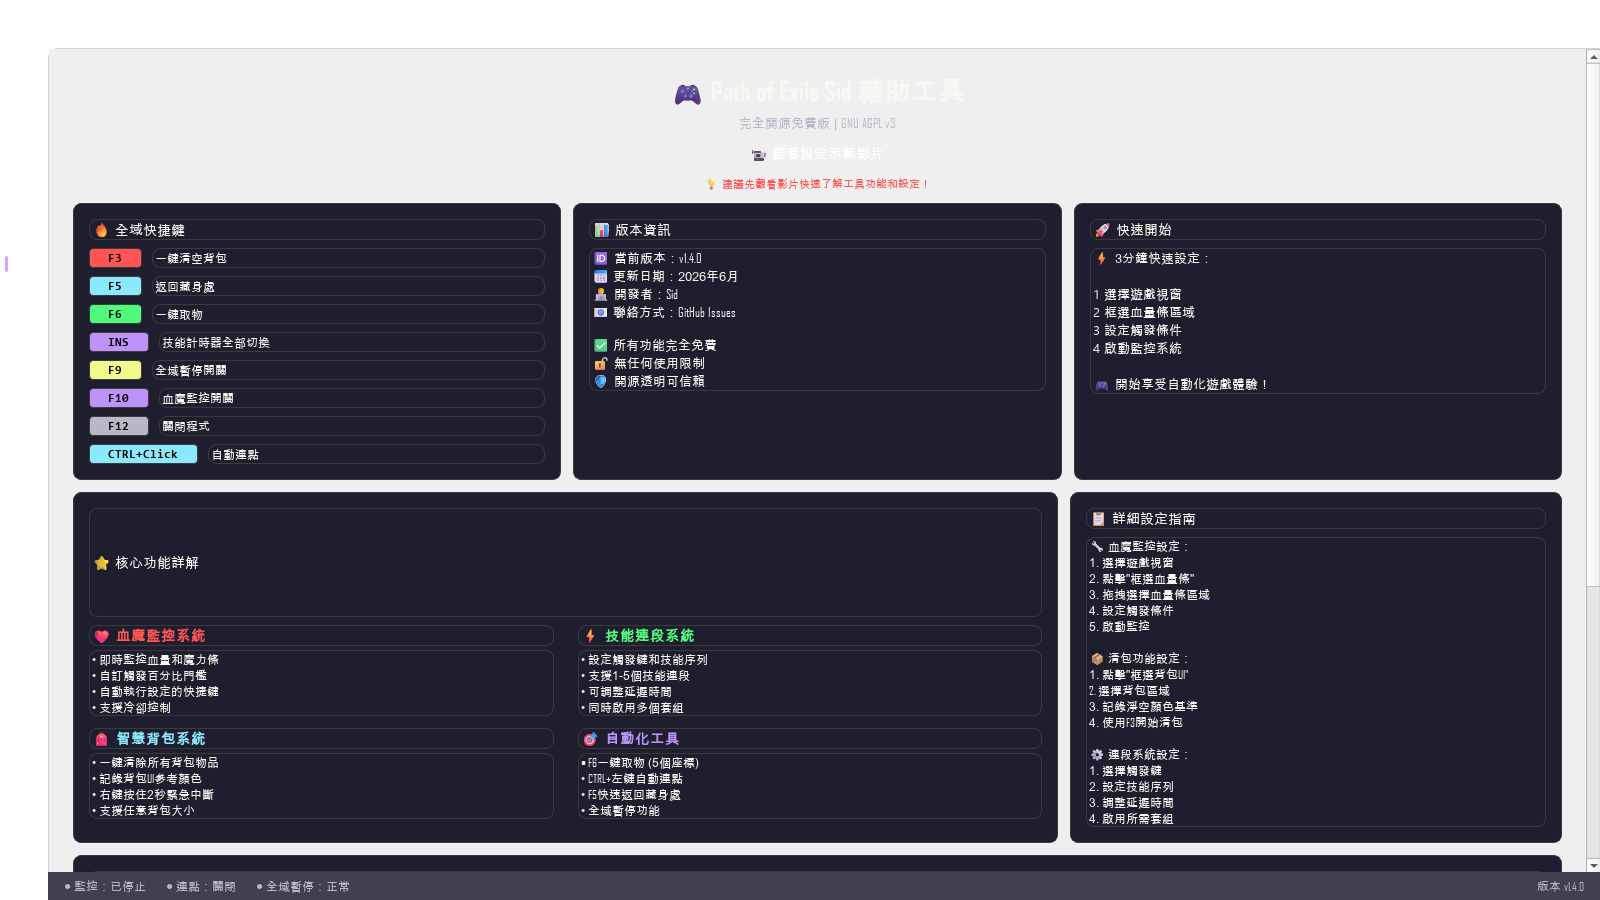
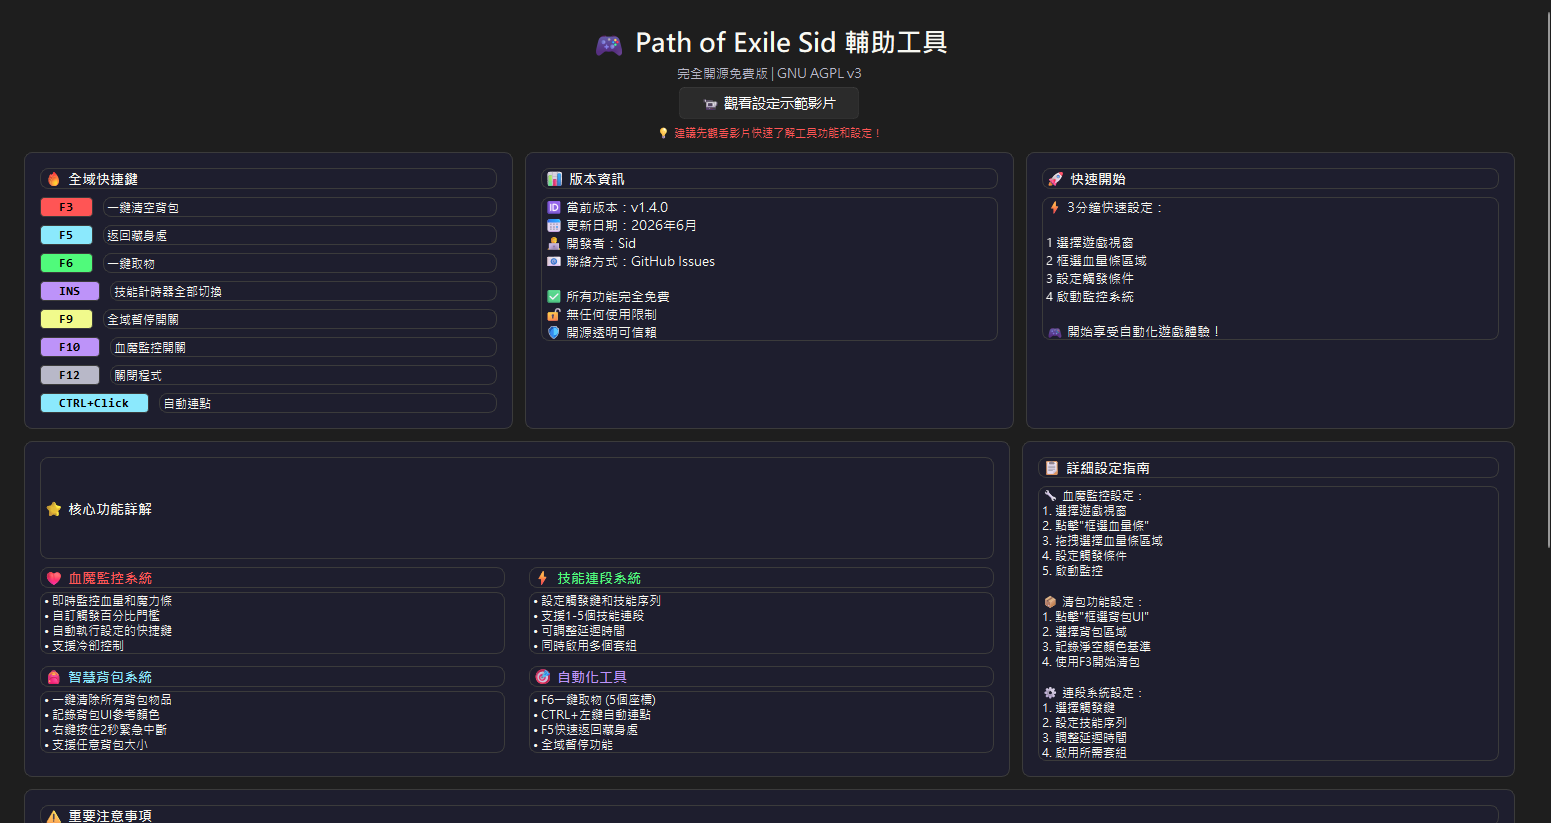
fix: GUI 截圖改以頁面 render() 呈現正確 Dark 主題

diff --git a/tools/capture_screenshots.py b/tools/capture_screenshots.py
@@ -1,7 +1,8 @@
-"""GUI 截圖工具：offscreen 渲染全部 8 頁，存 PNG。
+"""GUI 截圖工具：渲染全部 8 頁，存 PNG（頁面本體，直擷 tab.grab()）。
 
-用法: python tools/capture_screenshots.py [--size 1600x900] [--out assets/screenshots]
-不開 visible 視窗，跑完即自動退出。
+用法: python tools/capture_screenshots.py [--out assets/screenshots]
+注意: 需用 QT_QPA_PLATFORM=windows 真實渲染（offscreen 會把 FluentWindow
+的半透明底層抓成白色，Dark 主題失效）；會閃出視窗。
 """
 
 import argparse
@@ -9,21 +10,20 @@ import os
 import sys
 import time
 
-# ponytail: offscreen 必須在 import Qt 前設
-os.environ.setdefault("QT_QPA_PLATFORM", "offscreen")
-os.environ.setdefault("QT_QPA_FONTDIR", r"C:\Windows\Fonts")
+# ponytail: FluentWindow 半透明底層 + grab() 會抓出白色，必須用 windows 平台真渲染
+os.environ.setdefault("QT_QPA_PLATFORM", "windows")
 
 ROOT = os.path.dirname(os.path.dirname(os.path.abspath(__file__)))
 SRC = os.path.join(ROOT, "src")
 sys.path.insert(0, SRC)
+
 # 讓 MainWindow 跳過 auto-click listener（與 app.py --smoke 同路徑）
 if "--smoke" not in sys.argv:
     sys.argv.append("--smoke")
-
-# ponytail: argparse 前先移走 --smoke，避免 unrecognized argument
 sys.argv = [a for a in sys.argv if a != "--smoke"]
 
-from PySide6.QtCore import Qt
+from PySide6.QtCore import QPoint
+from PySide6.QtGui import QPixmap
 from PySide6.QtWidgets import QApplication
 from qfluentwidgets import Theme, setTheme
 
@@ -55,13 +55,10 @@ def switch_to(window, widget):
 
 def main() -> int:
     ap = argparse.ArgumentParser()
-    ap.add_argument("--size", default="1600x900")
     ap.add_argument("--out", default=os.path.join(ROOT, "assets", "screenshots"))
     args = ap.parse_args()
-    # parse 完再把 --smoke 還回 argv，讓 MainWindow 跳過 auto-click
     if "--smoke" not in sys.argv:
         sys.argv.append("--smoke")
-    w, h = (int(x) for x in args.size.lower().split("x"))
     os.makedirs(args.out, exist_ok=True)
 
     app = QApplication.instance() or QApplication([])
@@ -71,11 +68,11 @@ def main() -> int:
     from qt.main_window import MainWindow
 
     window = MainWindow()
-    window.resize(w, h)
     window.show()
     app.processEvents()
+    time.sleep(1.5)
+    app.processEvents()
 
-    # 讓 Status 頁有內容可截（沿用 smoke 的正常 log 格式）
     try:
         window.add_status_message("Screenshot demo: app started (auto capture)", "info")
         window.add_status_message("Health monitor ready", "success")
@@ -86,13 +83,15 @@ def main() -> int:
     for attr, name in TABS:
         tab = getattr(window, attr)
         switch_to(window, tab)
-        tab.show()
         app.processEvents()
-        time.sleep(0.4)
+        time.sleep(0.8)
         app.processEvents()
         path = os.path.join(args.out, f"{name}.png")
-        pixmap = window.grab()
-        ok = pixmap.save(path, "PNG")
+        # ponytail: 用 render() 而非 grab()：grab() 會把 CardWidget 等
+        # Fluent 卡片的半透明底層合成成白色（設定頁白底 bug）
+        pm = QPixmap(tab.size())
+        tab.render(pm, QPoint(0, 0))
+        ok = pm.save(path, "PNG")
         print(f"{'OK ' if ok else 'FAIL'} {path}")
         if not ok:
             return 1
